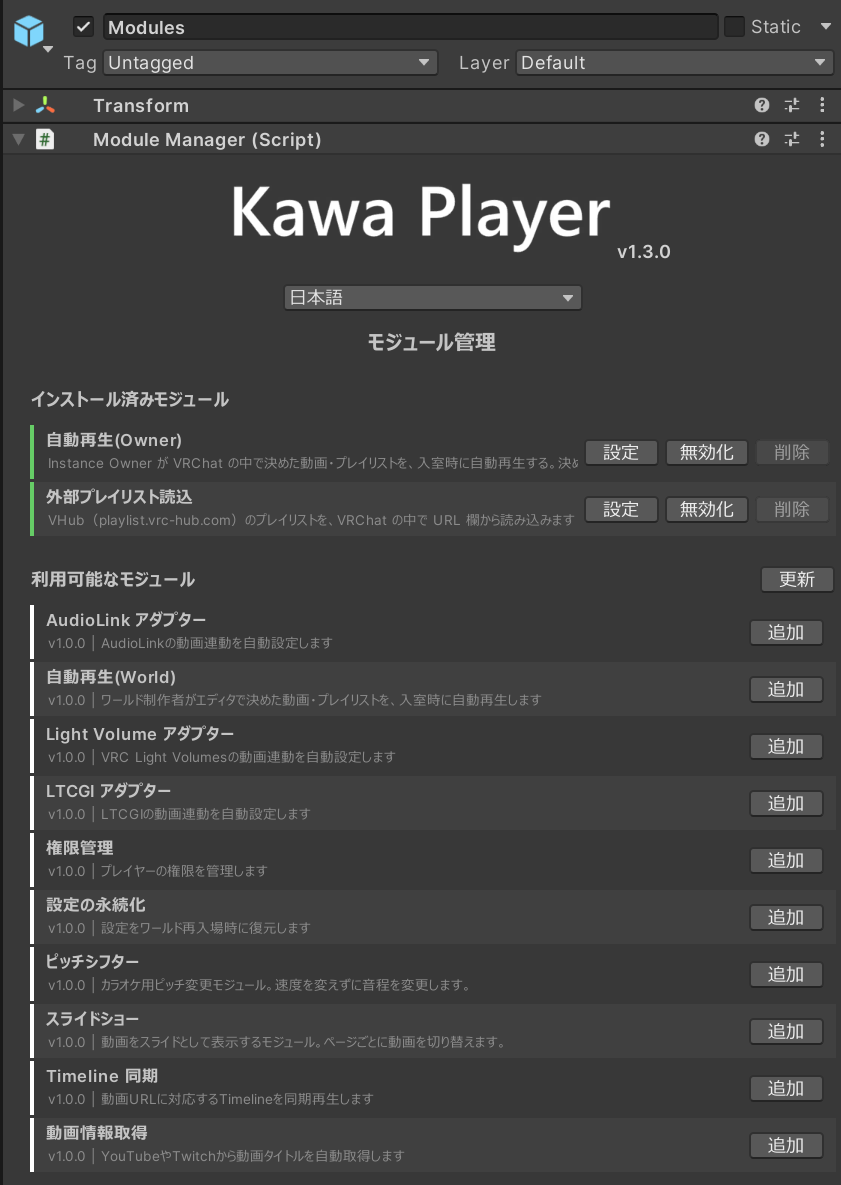
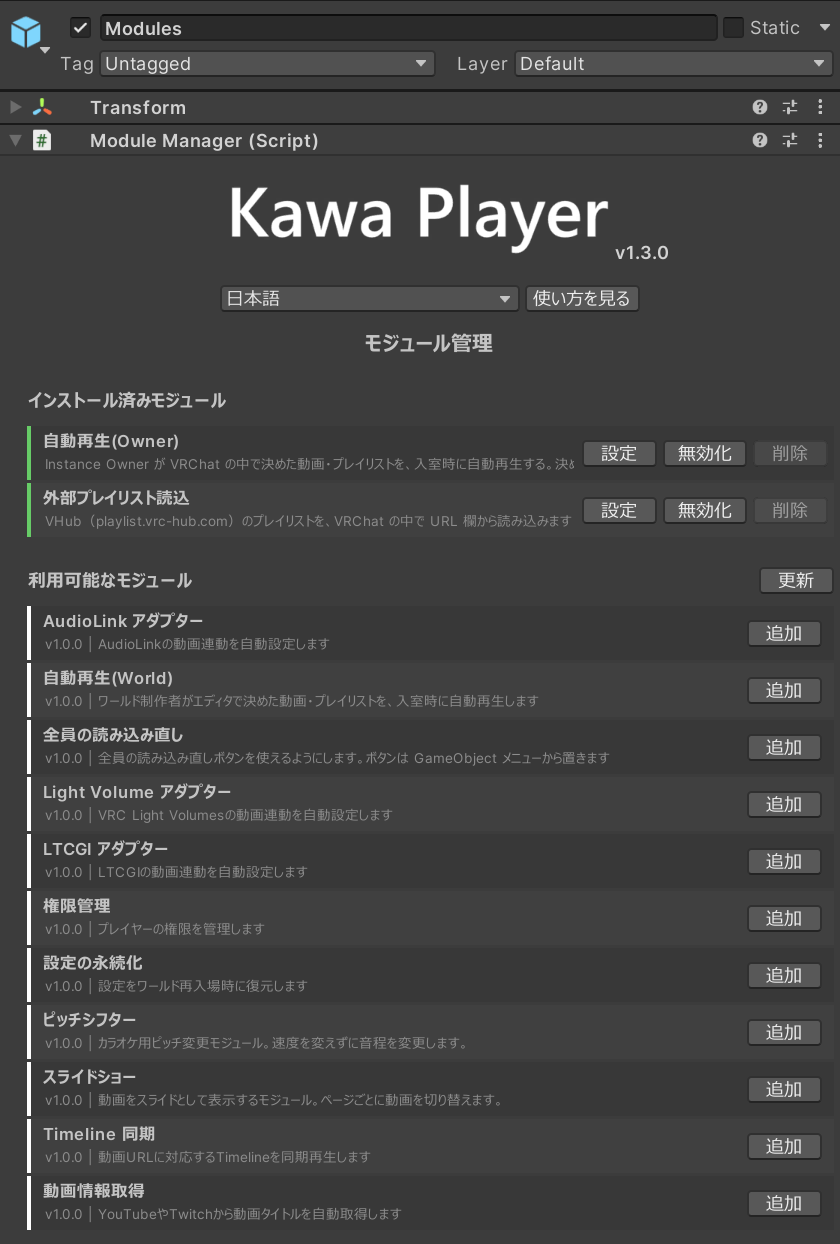
docs(guide): add the global reload module before placing its button
The global reload button now works through a module (#248), so the
guide's steps for placing it add the module first, and say that a
button whose player has no such module switched on, or that has no
player, is left out of the world, as the build log reports. The modules
page describes the module where Module Manager lists it, after Autoplay
(World), and its picture is taken again with the new row; the module's
description is short enough to fit that row. The install page says the
button goes with the module.

Refs #248

Claude-Session: https://claude.ai/code/session_014UgSPcxLDoFJhLM3Stmszr

diff --git a/docs/guide/images/annotate.py b/docs/guide/images/annotate.py
@@ -141,7 +141,7 @@ MARKS = {
     ]),
     "unity/module-manager": dict(scale=0.72, marks=[
         dict(box=(28, 423, 834, 537), n=1),
-        dict(box=(746, 615, 828, 1163), n=2),
+        dict(box=(746, 615, 828, 1222), n=2),
     ]),
     # The quickstart only fills in the KawaPlayer field; the tablet page explains the rest.
     "unity/tablet-player-field": dict(src="unity/tablet-inspector", scale=0.72, pad=dict(right=270), marks=[

diff --git a/docs/guide/global-reload.md b/docs/guide/global-reload.md
@@ -22,15 +22,20 @@ KawaPlayer のスクリーンとタブレットには、自分の画面だけを
 
 ## 置く
 
-1. Hierarchy の何もないところを押して、何も選んでいない状態にします。オブジェクトが選ばれたままだと、ボタンがその中に置かれます。
-2. Unity のメニューの **GameObject**（①）> **KawaPlayer**（②）> **Global Reload Button**（③）を選びます。
+ボタンは、プレイヤーの **全員の読み込み直し** のモジュールを通して全員に送ります。先にモジュールを足してから、ボタンを置きます。
+
+1. KawaPlayer のインスペクターで **モジュール管理** を押し、**利用可能なモジュール** の **全員の読み込み直し** の **追加** を押します（[モジュール](modules.md#全員の読み込み直し)）。
+2. Hierarchy の何もないところを押して、何も選んでいない状態にします。オブジェクトが選ばれたままだと、ボタンがその中に置かれます。
+3. Unity のメニューの **GameObject**（①）> **KawaPlayer**（②）> **Global Reload Button**（③）を選びます。
 
    ![Unity の GameObject メニュー。① GameObject、② KawaPlayer、③ Global Reload Button に印がある](images/unity/gameobject-menu-global-reload.webp)
 
-3. 置かれたボタンを選び、インスペクターの **KawaPlayer** に、読み込み直すプレイヤーを入れます。
-4. ステージや配信卓の近くなど、主催者が押せる所に動かします。
+4. 置かれたボタンを選び、インスペクターの **KawaPlayer** に、読み込み直すプレイヤーを入れます。
+5. ステージや配信卓の近くなど、主催者が押せる所に動かします。
 
 表示は英語だけです（**RELOAD ALL** など）。
+
+プレイヤーを入れていないボタンと、モジュールが入っていない・無効のプレイヤーを入れたボタンは、ワールドに入りません。ビルドのログに、どのボタンかが出ます。イベントのない日などにボタンを使わないときは、モジュールを無効化すれば、そのプレイヤーのボタンがすべてワールドから外れます。
 
 ## 押せる人
 

diff --git a/docs/guide/modules.md b/docs/guide/modules.md
@@ -115,6 +115,15 @@ KawaPlayer の音を、AudioLink に送るモジュールです。
   - [自動再生(Owner)](#自動再生owner) と一緒には使えません。自動再生(World) を使うときは、自動再生(Owner) を無効化してください。両方が有効だと、モジュール管理・KawaPlayer のインスペクター・ビルドのログにエラーが出ます。
   - **From Playlist** で選ぶプレイリストより前に、無効のプレイリストや曲のないプレイリストがあると、別のプレイリストが流れることがあります。ワールドに入るプレイリストを、上に並べてください。
 
+### 全員の読み込み直し
+
+[全員の読み込み直しボタン](global-reload.md) を使えるようにするモジュールです。ボタンを押すと、インスタンスの全員が、それぞれの画面で今の動画を読み込み直します。ライブ配信のイベントなどで使います。
+
+- **必要なもの:** ワールドに置いた [全員の読み込み直しボタン](global-reload.md#置く)。モジュールだけでは、何も変わりません。
+- **設定:** ありません。
+- **ワールドの中:** 押し方と、ボタンの表示は [全員の読み込み直しボタン](global-reload.md#使う) にあります。
+- **注意:** このモジュールが入っていない、または無効のプレイヤーを入れたボタンは、ワールドに入りません。ビルドのログに、どのボタンかが出ます。
+
 ### Light Volume アダプター
 
 映像の色に合わせて、VRC Light Volumes の光の色を変えるモジュールです。

diff --git a/docs/guide/install.md b/docs/guide/install.md
@@ -78,4 +78,4 @@ KawaPlayer の更新をワールドに反映するには、Unity で **Build & P
 
 - **C. プレハブから:** Project の **Packages > KawaPlayer** にある `KawaPlayer.prefab` を、シーンにドラッグします。
 
-同じメニューには、タブレット（**Tablet**、[タブレット](tablet.md)）のほかに、スクリーンや操作パネルを足すための部品（**SubScreen**・**Controller Bar**・**Playlist Panel**）と、全員の読み込み直しボタン（**Global Reload Button**、[全員の読み込み直しボタン](global-reload.md)）もあります。
+同じメニューには、タブレット（**Tablet**、[タブレット](tablet.md)）のほかに、スクリーンや操作パネルを足すための部品（**SubScreen**・**Controller Bar**・**Playlist Panel**）と、全員の読み込み直しボタン（**Global Reload Button**、[全員の読み込み直しボタン](global-reload.md)。同じ名前のモジュールと一緒に使います）もあります。
